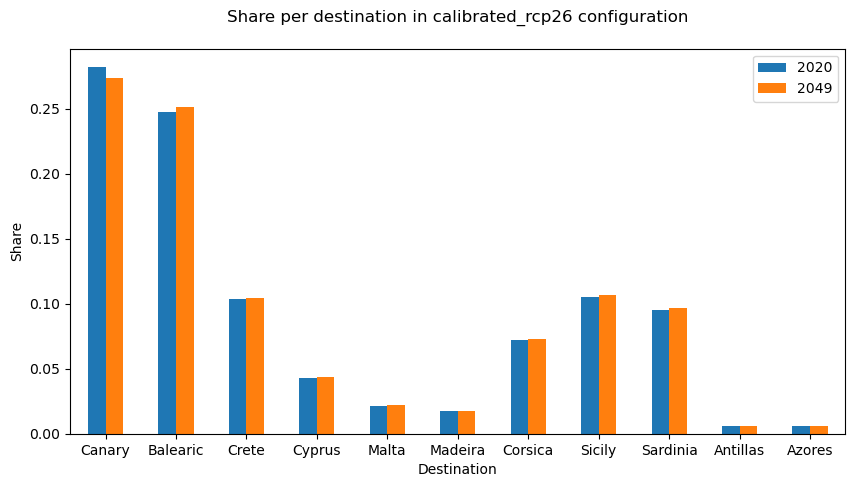
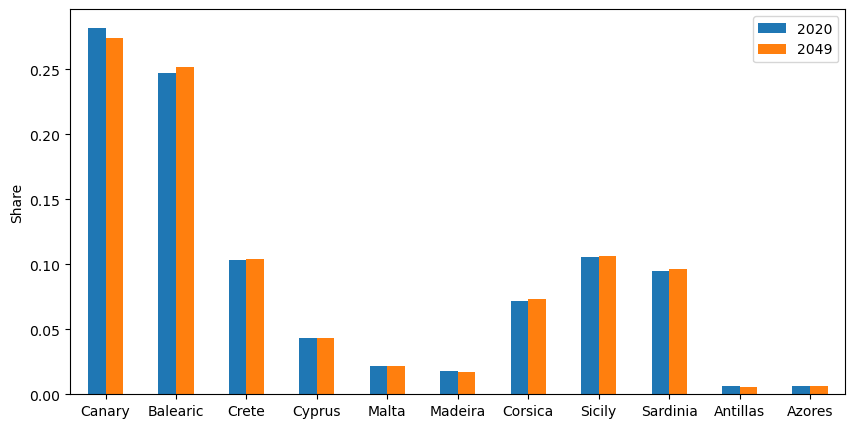
remove redundant labels in the comparison plots

diff --git a/scripts/analysis/barplot_comparison_calibration.py b/scripts/analysis/barplot_comparison_calibration.py
@@ -48,6 +48,10 @@ history_path = 'data/base_data/history_arrivals.csv'
 plot_folder = 'data/results/instances_output/plots/'
 solutions = [f'calibrated_{rcp}', rcp]
 
+# Process rcp to get name. E.g. rcp26 -> RCP 2.6
+rcp_name = rcp.upper().replace('RCP', 'RCP ')
+rcp_name = re.sub(r'(\d)(\d)', r'\1.\2', rcp_name)
+
 ###############################################################################
 
 # 1. Load history data
@@ -72,13 +76,15 @@ for solution in solutions:
     config_share = get_experiment_total_share(output_file, destinations)
     total_shares = total_shares.join(config_share.rename(solution))
 
-total_shares.columns = ['History', 'Calibrated Solution', 'Initial Solution']
+total_shares.columns = ['Historical real share',
+                        f'Calibrated model ({rcp_name})',
+                        f'Initial model ({rcp_name})']
 
 # Build figure for given parameter config
 fig = total_shares.plot.bar(rot=0, figsize=(10, 5))
 fig.set_ylabel('Total share (2010-2019)')
-fig.set_xlabel('Destination')
-fig.set_title(f'Total share per destination\n')
+# fig.set_xlabel('Destination')
+# fig.set_title(f'Total share per destination\n')
 
 # Save figure
 figure_path = f'{plot_folder}{rcp}_calibration_barplot_comparison.png'

diff --git a/scripts/analysis/barplot_comparison_2020to2050.py b/scripts/analysis/barplot_comparison_2020to2050.py
@@ -57,8 +57,8 @@ with open(output_file) as json_file:
 
 fig = results.transpose().plot.bar(rot=0, figsize=(10, 5))
 fig.set_ylabel('Share')
-fig.set_xlabel('Destination')
-fig.set_title(f'Share per destination in {instance_name} configuration\n')
+# fig.set_xlabel('Destination')
+# fig.set_title(f'Share per destination in {instance_name} configuration\n')
 
 # Save figure
 figure_path = f'{plot_folder}{instance_name}_2020to2050_barplot_comparison.png'
@@ -73,10 +73,10 @@ fig = difference.plot.bar(rot=0, figsize=(10, 5), width=0.9,
                           color=['red' if val < 0 else 'blue' for val in
                                  difference])
 fig.set_ylabel('Share difference')
-fig.set_xlabel('Destination')
-fig.set_title(
-    f'Share difference per destination between 2020 and 2049 in '
-    f'{instance_name} configuration\n')
+# fig.set_xlabel('Destination')
+# fig.set_title(
+#     f'Share difference per destination between 2020 and 2049 in '
+#     f'{instance_name} configuration\n')
 
 for i, val in enumerate(difference):
     if val >= 0:
